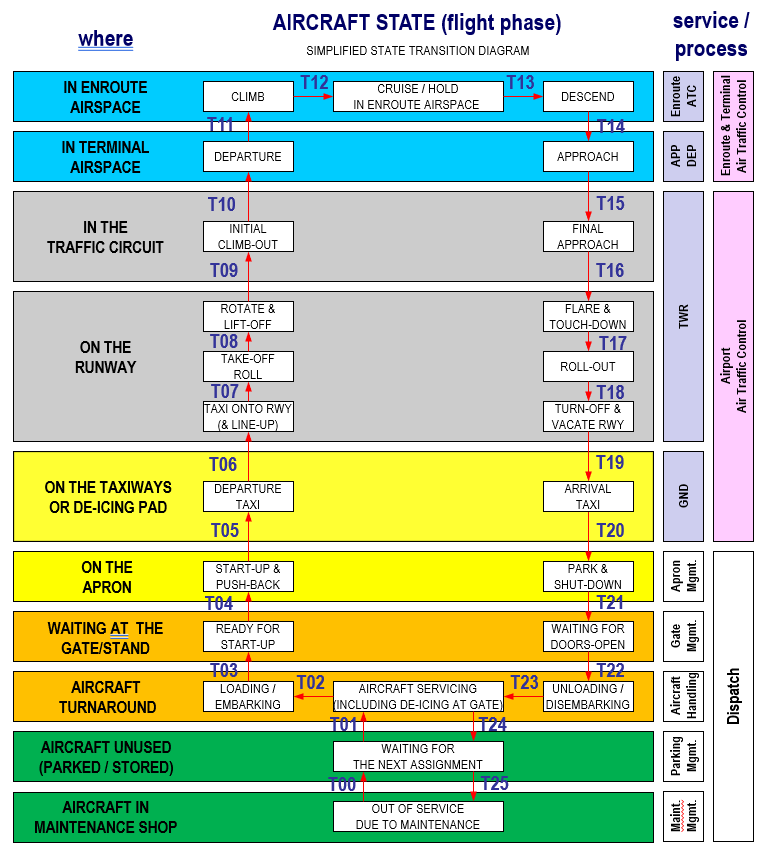
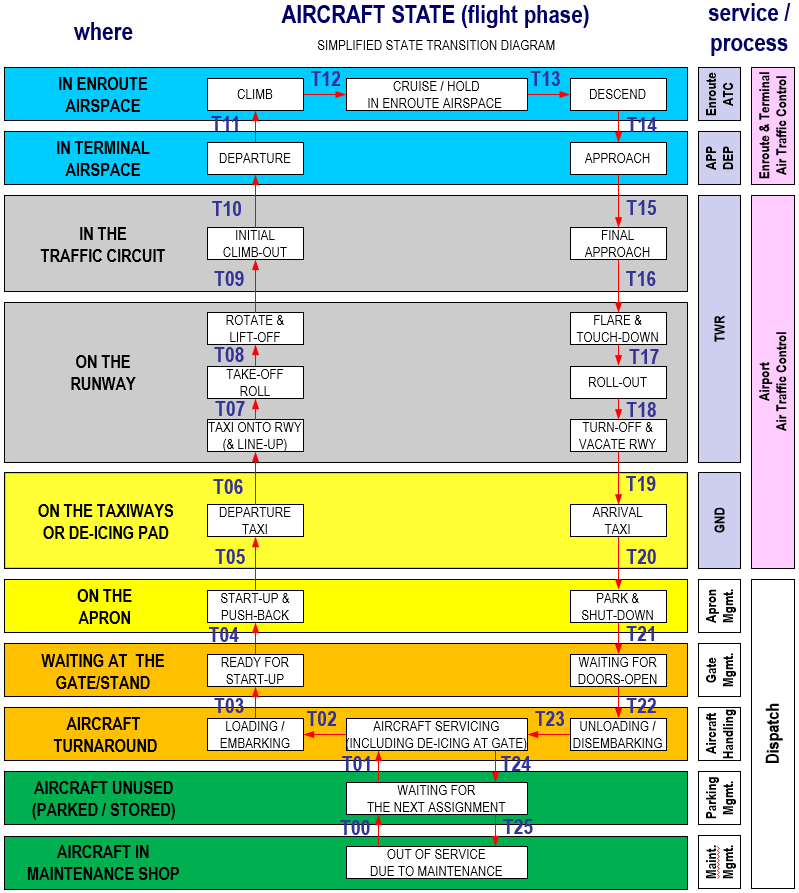
some final touches

diff --git a/_site/about.html b/_site/about.html
@@ -159,25 +159,25 @@ ul.task-list li input[type="checkbox"] {
 <section id="performance-review-commission" class="level2">
 <h2 class="anchored" data-anchor-id="performance-review-commission">Performance Review Commission</h2>
 <p>The Performance Review Commission (PRC) was established in 1998 by EUROCONTROL’s Permanent Commission.</p>
-<p>It provides objective information and independent advice to EUROCONTROL’s governing bodies on European air traffic management (ATM) performance, based on extensive research, data analysis and consultation with stakeholders. Its purpose is “to ensure the effective management of the European air traffic management System through a strong, transparent and independent performance review,” as stated in Article 1 of the PRC Terms of Reference and Rules of Procedure.</p>
+<p>It provides objective information and independent advice to EUROCONTROL’s governing bodies on European Air Traffic Management (ATM) performance, based on extensive research, data analysis and consultation with stakeholders. Its purpose is “to ensure the effective management of the European air traffic management System through a strong, transparent and independent performance review,” as stated in Article 1 of the PRC Terms of Reference and Rules of Procedure.</p>
 <p>The PRC reports to the EUROCONTROL Permanent Commission through the Provisional Council and is supported by the <a href="https://ansperformance.eu/about/us/">Performance Review Unit (PRU)</a> operating under the EUROCONTROL Agency with the appropriate level of independence.</p>
-<p>For more information about the Performance Review Commission, see <a href="https://ansperformance.eu/about/prc/">here</a>.</p>
+<p>For more information about the PRC, see <a href="https://ansperformance.eu/about/prc/">here</a>.</p>
 </section>
 <section id="open-performance-data-initiative" class="level2">
 <h2 class="anchored" data-anchor-id="open-performance-data-initiative">Open Performance Data Initiative</h2>
 <p>In 2022, the PRC launched the Open Performance Data Initiative (OPDI) with a view to establish a data platform, to support higher levels of transparency and reproducibility of performance related monitoring and associated analyses. This initiative addresses the requirement to establish a level playing field for all stakeholders, ranging from the interested public, operational and strategic planners, to political decision-makers. Pursuing an open data-based approach will allow all interested parties to tap into a harmonised data environment to build their assessments, validate results published by other parties, and reproduce findings in support of the political and operational discussion about observed performance.</p>
 <p>The upcoming challenges to our industry require that stakeholders can embrace and tap into a harmonised and consolidated data set to drive the discussion on higher performance levels, performance expectations in terms of targets, or realised performance benefits following the deployment of new capabilities.</p>
-<p>For more information about the Open Performance Data Initiative, see <a href="https://www.eurocontrol.int/publication/performance-insight-5-open-performance-data">here</a>.</p>
+<p>For more information about the OPDI, see <a href="https://www.eurocontrol.int/publication/performance-insight-5-open-performance-data">here</a>.</p>
 </section>
 <section id="benefits-of-open-access-and-open-data-for-performance-monitoring" class="level2">
 <h2 class="anchored" data-anchor-id="benefits-of-open-access-and-open-data-for-performance-monitoring">Benefits of Open Access and Open Data for Performance Monitoring</h2>
-<p>To understand the depth of the proposed Open Performance Data Initiative it is vital to define the key terminology upfront.</p>
+<p>To understand the depth of the proposed OPDI it is vital to define the key terminology upfront.</p>
 <ul>
 <li><strong>Open Access</strong>: Open Access refers to the process of managing copyright and licensing terms and access to the data. This access mode is vital to overcome today’s limitation and remove barriers such as price (including subscriptions, licensing fees, user-pay-principles, or even view fees), and permission (e.g., licensing restrictions) to enable free access and use of the data.</li>
 <li><strong>Open Data</strong>: The term Open Data refers to data - typically managed and available online – which is free of cost and accessible data. Open data can be freely used, reused, and distributed provided that the data source is attributed.</li>
 <li><strong>Open-Source Software</strong>: Open-Source Software is software which source code can be openly accessed, inspected, modified, and enhanced by anyone.</li>
 </ul>
-<p>The focus of the Open Performance Data Initiative is on open data, in particular open access and open use of data for non-commercial purposes. It is understood that potential developments of novel algorithms and techniques can produce tools that are made available to the community as open-source software.</p>
+<p>The focus of the OPDI is on open data, in particular open access and open use of data for non-commercial purposes. It is understood that potential developments of novel algorithms and techniques can produce tools that are made available to the community as open-source software.</p>
 <p>There exists a huge body of literature highlighting the impact of open data. Across the different sources the following impact areas emerge:</p>
 <div class="callout callout-style-default callout-note no-icon callout-titled">
 <div class="callout-header d-flex align-content-center" data-bs-toggle="collapse" data-bs-target=".callout-1-contents" aria-controls="callout-1" aria-expanded="false" aria-label="Toggle callout">
@@ -248,7 +248,7 @@ Engagement and Empowerment
 </div>
 </div>
 </div>
-<p>Open data and performance analytics are often viewed as separate practices, however, both are inextricable when it comes to the operations of modern governance. To ensure transparent and independent review, open data provides the underlying “raw material” for the analysis and monitoring of performance. In that respect, PRC’s Open Performance Data Initiative aims at increasing transparency, supporting higher levels of data access and information availability for decision-making, engaging and increasing accountability of involved stakeholders.</p>
+<p>Open data and performance analytics are often viewed as separate practices, however, both are inextricable when it comes to the operations of modern governance. To ensure transparent and independent review, open data provides the underlying “raw material” for the analysis and monitoring of performance. In that respect, PRC’s OPDI aims at increasing transparency, supporting higher levels of data access and information availability for decision-making, engaging and increasing accountability of involved stakeholders.</p>
 <p>For more information about the potential benefits of the open access and open data for performance monitoring, see <a href="https://www.eurocontrol.int/publication/performance-insight-5-open-performance-data">here</a>.</p>
 
 
@@ -256,6 +256,18 @@ Engagement and Empowerment
 <section id="acronyms_HEADER_LOA" class="level1 loa">
 <h1 class="loa">List of Acronyms</h1>
 <dl>
+<dt><span id="acronyms_ATM">ATM</span></dt>
+<dd>
+Air Traffic Management
+</dd>
+<dt><span id="acronyms_OPDI">OPDI</span></dt>
+<dd>
+Open Performance Data Initiative
+</dd>
+<dt><span id="acronyms_PRC">PRC</span></dt>
+<dd>
+Performance Review Commission
+</dd>
 </dl>
 </section>
 

diff --git a/_site/concepts.html b/_site/concepts.html
@@ -238,9 +238,34 @@ Note
 <img src="media/aircraft_state_diagram.png" class="img-fluid figure-img" style="width:100.0%">
 </div>
 <figcaption class="figure quarto-float-caption quarto-float-fig" id="fig-flight-phases-caption-0ceaefa1-69ba-4598-a22c-09a6ac19f8ca">
-Figure&nbsp;1: Flight phases and events.
+Figure&nbsp;1: (Simplified) Flight phases and events. For a more complete/complex representation, see <a href="#fig-flight-phases_complex" class="quarto-xref">Figure&nbsp;2</a> in the collapsable block
 </figcaption>
 </figure>
+</div>
+<div class="callout callout-style-simple callout-note callout-titled" title="Flight phases and events (more complete/complex diagram) (click to open/close)">
+<div class="callout-header d-flex align-content-center" data-bs-toggle="collapse" data-bs-target=".callout-2-contents" aria-controls="callout-2" aria-expanded="false" aria-label="Toggle callout">
+<div class="callout-icon-container">
+<i class="callout-icon"></i>
+</div>
+<div class="callout-title-container flex-fill">
+Flight phases and events (more complete/complex diagram) (click to open/close)
+</div>
+<div class="callout-btn-toggle d-inline-block border-0 py-1 ps-1 pe-0 float-end"><i class="callout-toggle"></i></div>
+</div>
+<div id="callout-2" class="callout-2-contents callout-collapse collapse">
+<div class="callout-body-container callout-body">
+<div id="fig-flight-phases_complex" class="quarto-figure quarto-figure-center anchored" width="100%">
+<figure class="quarto-float quarto-float-fig figure">
+<div aria-describedby="fig-flight-phases_complex-caption-0ceaefa1-69ba-4598-a22c-09a6ac19f8ca">
+<img src="media/aircraft_state_diagram_complex.png" class="img-fluid figure-img" style="width:100.0%">
+</div>
+<figcaption class="figure quarto-float-caption quarto-float-fig" id="fig-flight-phases_complex-caption-0ceaefa1-69ba-4598-a22c-09a6ac19f8ca">
+Figure&nbsp;2: Flight phases and events, a more complete/complex diagram.
+</figcaption>
+</figure>
+</div>
+</div>
+</div>
 </div>
 <p>The events in <a href="#fig-flight-phases" class="quarto-xref">Figure&nbsp;1</a> are:</p>
 <ul>

diff --git a/_site/roadmap.html b/_site/roadmap.html
@@ -164,15 +164,17 @@ ul.task-list li input[type="checkbox"] {
 <ul>
 <li>Larger time frame for the available data sets (initial goal: 1 year).</li>
 <li>Improving the initial flight event extractions by fine tuning parameters and algorithms.</li>
-<li>Improvement in flight list ADEP / ADES approximations using <a href="https://h3geo.org/">H3 geospatial indexing system</a>.</li>
+<li>Improvement in flight list Aerodrome of Departure (ADEP) / Aerodrome of Destination (ADES) approximations using <a href="https://h3geo.org/">H3 geospatial indexing system</a>.</li>
 <li>Inclusion of off-block, in-block, runway entry and exit flight events.</li>
 </ul>
 <p><strong>Long term release vision</strong></p>
 <p>Long term the OPDI aims to include the following improvements:</p>
 <ul>
-<li>Include more milestones (FIR crossing, start and stop of holdings patters).</li>
-<li>Use third party trajectory data (aside from the available OpenSky Network trajectory data).</li>
+<li>Include more milestones (Flight Information Region (FIR) crossing, start and stop of holdings patters).</li>
+<li>Use third party trajectory data (aside from the available OpenSky Network (OSN) trajectory data).</li>
 <li>Use third party data for validations of flight events and measurements.</li>
+<li>Provide easy access to OSN state vector trajectories at 5-sec granularity</li>
+<li>Provide cleaned up</li>
 </ul>
 </section>
 <section id="past-releases" class="level2">
@@ -218,6 +220,26 @@ ul.task-list li input[type="checkbox"] {
 <section id="acronyms_HEADER_LOA" class="level1 loa">
 <h1 class="loa">List of Acronyms</h1>
 <dl>
+<dt><span id="acronyms_ADEP">ADEP</span></dt>
+<dd>
+Aerodrome of Departure
+</dd>
+<dt><span id="acronyms_ADES">ADES</span></dt>
+<dd>
+Aerodrome of Destination
+</dd>
+<dt><span id="acronyms_FIR">FIR</span></dt>
+<dd>
+Flight Information Region
+</dd>
+<dt><span id="acronyms_OPDI">OPDI</span></dt>
+<dd>
+Open Performance Data Initiative
+</dd>
+<dt><span id="acronyms_OSN">OSN</span></dt>
+<dd>
+OpenSky Network
+</dd>
 </dl>
 </section>
 
